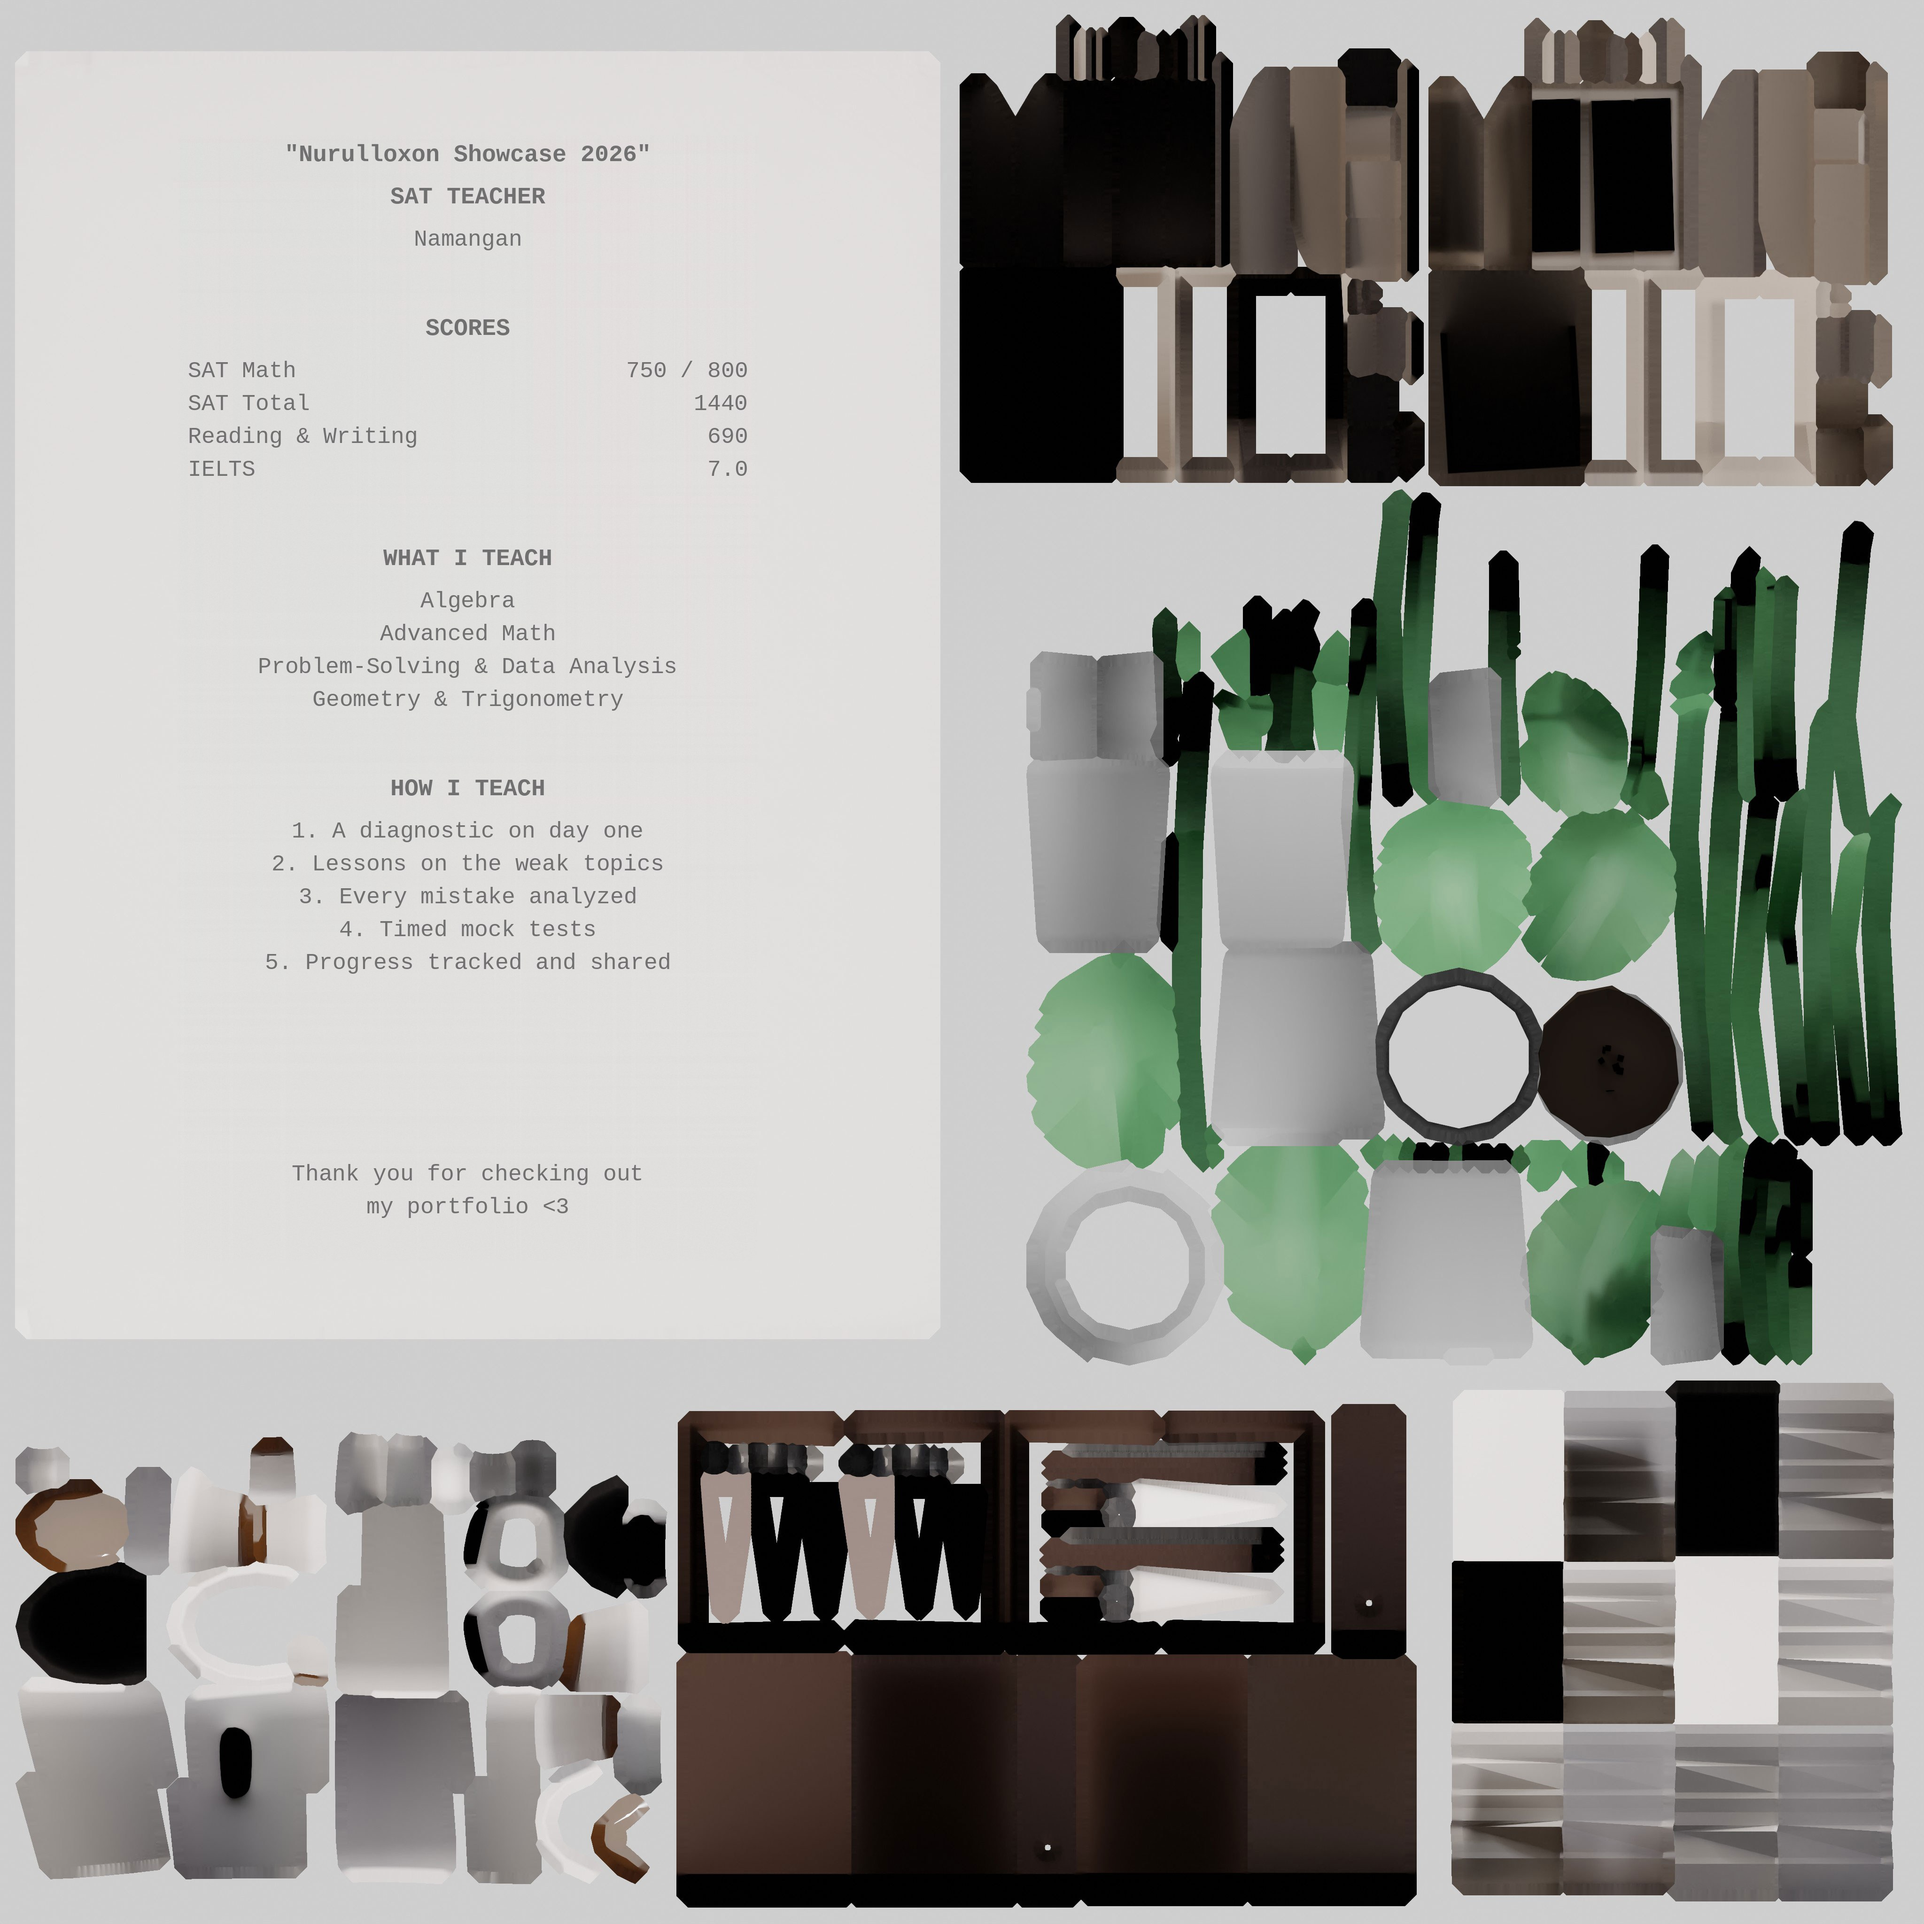
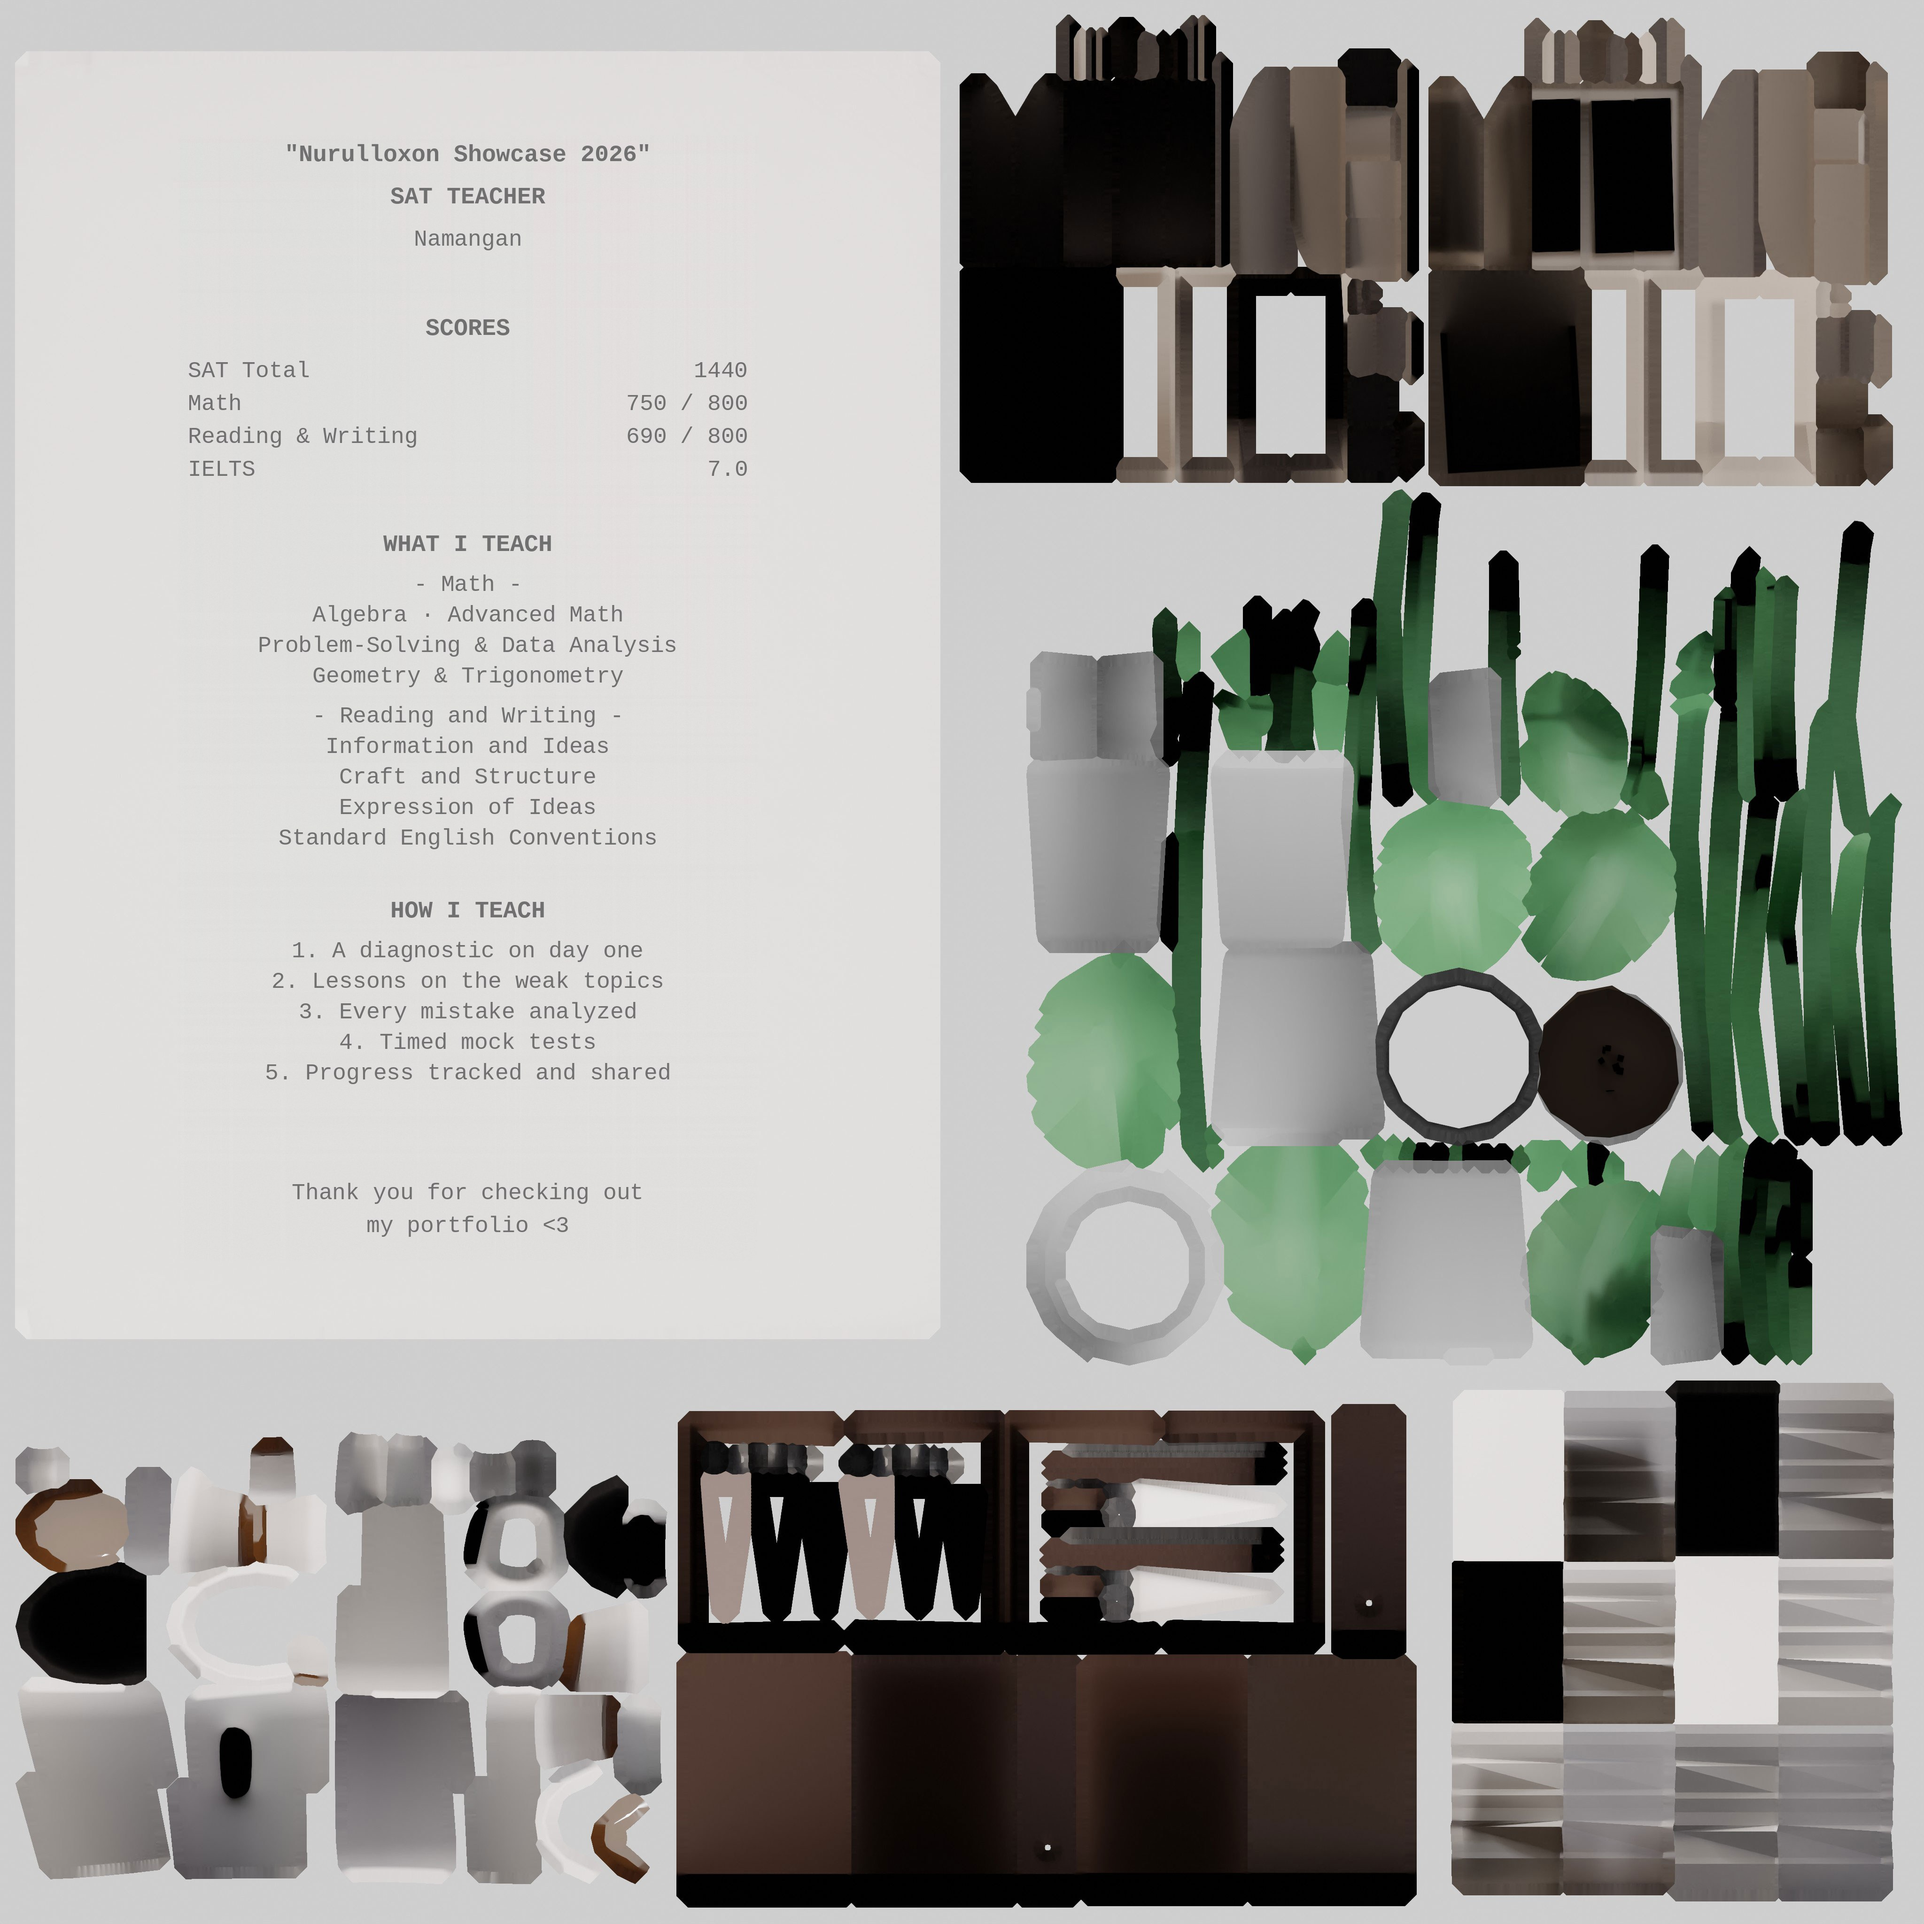
Show that both SAT sections are taught
- About intro and the search description now say Math and Reading &
  Writing.
- "What I teach" lists both sections with their four official domains
  each.
- The scores table gives Reading & Writing 690 its own row and meter, next
  to Math 750; the boot screen and the 3D desk paper and stickers match.
- The sidebar name is a little smaller so it no longer breaks mid-word.

Claude-Session: https://claude.ai/code/session_016G2YqKVaUZP6oTcSv5VpRT

diff --git a/site/components/os/apps/Showcase.tsx b/site/components/os/apps/Showcase.tsx
@@ -92,12 +92,29 @@ function HomePage({ go }: { go: Go }) {
   );
 }
 
+/** One SAT section score with a meter on the 200–800 scale (both sections share it). */
+function SectionScore({ label, score, axisLabel }: { label: string; score: number; axisLabel: string }) {
+  const hero = useTranslations("hero");
+  const meter = (score - scores.satMathMin) / (scores.satMathMax - scores.satMathMin);
+  return (
+    <tr>
+      <th scope="row">{label}</th>
+      <td>
+        <b>{score}</b> {hero("outOf", { max: scores.satMathMax })}
+        <div className="score-meter" role="img" aria-label={axisLabel}>
+          <div className="score-meter-fill" style={{ width: `${meter * 100}%` }} />
+        </div>
+        <span className="score-scale">{hero("scoreScale")}</span>
+      </td>
+    </tr>
+  );
+}
+
 function AboutPage() {
   const t = useTranslations("showcase");
   const hero = useTranslations("hero");
   const teach = useTranslations("teach");
   const method = useTranslations("method");
-  const meter = (scores.satMath - scores.satMathMin) / (scores.satMathMax - scores.satMathMin);
 
   return (
     <article className="showcase-article">
@@ -119,25 +136,21 @@ function AboutPage() {
         <table className="score-table">
           <tbody>
             <tr>
-              <th scope="row">{hero("satMath")}</th>
-              <td>
-                <b>{scores.satMath}</b> {hero("outOf", { max: scores.satMathMax })}
-                <div
-                  className="score-meter"
-                  role="img"
-                  aria-label={hero("scoreAxisLabel", { score: scores.satMath })}
-                >
-                  <div className="score-meter-fill" style={{ width: `${meter * 100}%` }} />
-                </div>
-                <span className="score-scale">{hero("scoreScale")}</span>
-              </td>
-            </tr>
-            <tr>
               <th scope="row">{hero("satTotal")}</th>
               <td>
-                <b>{scores.satTotal}</b> <span className="score-scale">{hero("readingWriting", { score: scores.satReadingWriting })}</span>
+                <b>{scores.satTotal}</b>
               </td>
             </tr>
+            <SectionScore
+              label={hero("satMath")}
+              score={scores.satMath}
+              axisLabel={hero("scoreAxisLabel", { score: scores.satMath })}
+            />
+            <SectionScore
+              label={hero("satReadingWriting")}
+              score={scores.satReadingWriting}
+              axisLabel={hero("rwAxisLabel", { score: scores.satReadingWriting })}
+            />
             <tr>
               <th scope="row">{hero("ielts")}</th>
               <td>
@@ -151,11 +164,19 @@ function AboutPage() {
       <h3>{teach("title")}</h3>
       <div className="text-block">
         <p>{teach("subtitle")}</p>
+        <h4>{teach("math")}</h4>
         <ul>
           <li>{teach("algebra")}</li>
           <li>{teach("advancedMath")}</li>
           <li>{teach("problemSolving")}</li>
           <li>{teach("geometry")}</li>
+        </ul>
+        <h4>{teach("readingWriting")}</h4>
+        <ul>
+          <li>{teach("informationIdeas")}</li>
+          <li>{teach("craftStructure")}</li>
+          <li>{teach("expressionIdeas")}</li>
+          <li>{teach("conventions")}</li>
         </ul>
         <p>
           <b>{t("formats")}</b> {teach("group")} · {teach("private")}

diff --git a/site/components/os/os.css b/site/components/os/os.css
@@ -492,6 +492,11 @@
   font-size: 24px;
 }
 
+.showcase h4 {
+  margin-top: 4px;
+  font-size: 19px;
+}
+
 .showcase a {
   color: var(--os-link);
 }
@@ -505,7 +510,7 @@
   flex: none;
   flex-direction: column;
   width: 290px;
-  padding: 48px;
+  padding: 48px 40px;
   overflow-y: auto;
 }
 
@@ -515,9 +520,8 @@
 
 .showcase .showcase-nav-name {
   font-family: var(--font-display), serif;
-  font-size: 40px;
+  font-size: 32px;
   line-height: 1;
-  overflow-wrap: anywhere;
 }
 
 .showcase .showcase-nav-edition {

diff --git a/site/components/scene/LoadingScreen.tsx b/site/components/scene/LoadingScreen.tsx
@@ -96,6 +96,7 @@ export function LoadingScreen({
           </div>
           <div className="boot-body">
             <p>SAT-{scores.satMath} Math Coprocessor ............ OK</p>
+            <p>R&amp;W-{scores.satReadingWriting} Reading &amp; Writing Unit ...... OK</p>
             <div className="boot-spacer" />
             <p>IELTS {scores.ielts} Language Module ......... DETECTED</p>
             <p>Checking RAM : {scores.satTotal} KB OK</p>

diff --git a/site/scripts/retexture.py b/site/scripts/retexture.py
@@ -98,8 +98,8 @@ def label(width, height, base, ink):
     d.text((14 * s, 12 * s), "Nurulloxon Showcase 2026", font=font(BOLD_OBLIQUE, int(15 * s)), fill=ink)
     d.text((14 * s, 30 * s), "sat teacher", font=font(OBLIQUE, int(10 * s)), fill=ink)
     small = font(SANS, int(8 * s))
-    d.text((14 * s, 50 * s), "SAT Math 750  ·  SAT 1440  ·  IELTS 7.0", font=small, fill=ink)
-    d.text((14 * s, 62 * s), "Diagnostic on day one. Mistake log. Mock tests.", font=small, fill=ink)
+    d.text((14 * s, 50 * s), "SAT 1440  ·  Math 750  ·  R&W 690  ·  IELTS 7.0", font=small, fill=ink)
+    d.text((14 * s, 62 * s), "Math and Reading & Writing. Diagnostic on day one.", font=small, fill=ink)
     d.text((14 * s, 84 * s), "Model No.", font=small, fill=ink)
     d.text((60 * s, 84 * s), "SAT-750", font=small, fill=ink)
     d.text((14 * s, 96 * s), "Input", font=small, fill=ink)
@@ -173,26 +173,31 @@ def decor():
     center(510, "Namangan")
 
     center(700, "SCORES", head)
-    row(790, "SAT Math", "750 / 800")
-    row(860, "SAT Total", "1440")
-    row(930, "Reading & Writing", "690")
+    row(790, "SAT Total", "1440")
+    row(860, "Math", "750 / 800")
+    row(930, "Reading & Writing", "690 / 800")
     row(1000, "IELTS", "7.0")
 
-    center(1190, "WHAT I TEACH", head)
-    center(1280, "Algebra")
-    center(1350, "Advanced Math")
-    center(1420, "Problem-Solving & Data Analysis")
-    center(1490, "Geometry & Trigonometry")
+    center(1160, "WHAT I TEACH", head)
+    center(1245, "- Math -")
+    center(1310, "Algebra · Advanced Math")
+    center(1375, "Problem-Solving & Data Analysis")
+    center(1440, "Geometry & Trigonometry")
+    center(1525, "- Reading and Writing -")
+    center(1590, "Information and Ideas")
+    center(1655, "Craft and Structure")
+    center(1720, "Expression of Ideas")
+    center(1785, "Standard English Conventions")
 
-    center(1680, "HOW I TEACH", head)
-    center(1770, "1. A diagnostic on day one")
-    center(1840, "2. Lessons on the weak topics")
-    center(1910, "3. Every mistake analyzed")
-    center(1980, "4. Timed mock tests")
-    center(2050, "5. Progress tracked and shared")
+    center(1940, "HOW I TEACH", head)
+    center(2025, "1. A diagnostic on day one")
+    center(2090, "2. Lessons on the weak topics")
+    center(2155, "3. Every mistake analyzed")
+    center(2220, "4. Timed mock tests")
+    center(2285, "5. Progress tracked and shared")
 
-    center(2500, "Thank you for checking out")
-    center(2570, "my portfolio <3")
+    center(2540, "Thank you for checking out")
+    center(2610, "my portfolio <3")
 
     img.save(f"{DEST}/models/baked_decor.jpg", quality=88, optimize=True, progressive=True)
 

diff --git a/site/CONTENT_TODO.md b/site/CONTENT_TODO.md
@@ -20,7 +20,7 @@ Every fact below is missing on purpose. The site shows a red dashed `TODO:` chip
 
 ## Baked into the 3D textures
 
-The sheet of paper on the desk and the stickers on the back of the computer show the scores (SAT Math 750, SAT 1440, R&W 690, IELTS 7.0), the five teaching steps and "Namangan". They are part of the texture images, in English, so they don't change with `profile.ts` or the language. If any of them changes, edit and run `scripts/retexture.py`.
+The sheet of paper on the desk and the stickers on the back of the computer show the scores (SAT 1440, Math 750, R&W 690, IELTS 7.0), the eight SAT domains, the five teaching steps and "Namangan". They are part of the texture images, in English, so they don't change with `profile.ts` or the language. If any of them changes, edit and run `scripts/retexture.py`.
 
 ## Left out until confirmed
 
